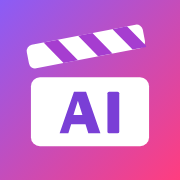
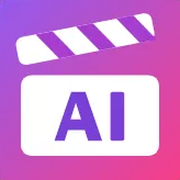
1줄 메뉴 모든 항목에 영상 개수 표시, 보내준 로고 이미지로 파비콘 교체
- 전체·카테고리 옆에도 NEW 탭처럼 영상 개수 표시 (999+까지)
- favicon.ico / favicon-32 / icon-192: 보내준 192px 로고에서 흰 모서리를 투명 처리해 생성
- apple-touch-icon: 모서리까지 꽉 찬 정사각형으로 생성
- 아이콘 주소 v=2 로 올려 브라우저 캐시 갱신, 에셋 버전 20261120i

Claude-Session: https://claude.ai/code/session_01DgkaVsdpXu8nWKSYNj5gJf

Changed region(s): [[0.0833, 0.0556, 0.9167, 0.8889], [0.9722, 0.9722, 1.0, 1.0], [0.0, 0.0, 0.0278, 0.0278]]

diff --git a/public/about.html b/public/about.html
@@ -1,14 +1,14 @@
 <!doctype html><html lang="ko"><head><meta charset="utf-8">
   <meta http-equiv="Content-Security-Policy" content="object-src 'none'; base-uri 'self'; form-action 'self'; script-src 'self' https: 'unsafe-eval'; script-src-attr 'none'; upgrade-insecure-requests" />
   <meta name="referrer" content="strict-origin-when-cross-origin" /><meta name="viewport" content="width=device-width,initial-scale=1"><title>소개 – All AI-Cinema</title>
-<link rel="icon" href="assets/logo.svg?v=1" type="image/svg+xml" /><link rel="icon" href="favicon-32.png?v=1" sizes="32x32" type="image/png" /><link rel="icon" href="icon-192.png?v=1" sizes="192x192" type="image/png" /><link rel="apple-touch-icon" href="apple-touch-icon.png?v=1" />
+<link rel="icon" href="assets/logo.svg?v=2" type="image/svg+xml" /><link rel="icon" href="favicon-32.png?v=2" sizes="32x32" type="image/png" /><link rel="icon" href="icon-192.png?v=2" sizes="192x192" type="image/png" /><link rel="apple-touch-icon" href="apple-touch-icon.png?v=2" />
 <link rel="stylesheet" href="https://cdn.jsdelivr.net/npm/pretendard@1.3.9/dist/web/variable/pretendardvariable-dynamic-subset.css" integrity="sha384-uR1wgObmx89ZQ4VVXHdzjbDJZ1PvBK01K+E3GebmaBKdZ87qRJvBWPoPbzWeEd5T" crossorigin="anonymous" referrerpolicy="no-referrer" /><link rel="stylesheet" href="assets/style.css?v=20261120b">
 <!-- Google 태그 (Google Ads) -->
   <script async src="https://www.googletagmanager.com/gtag/js?id=AW-947429542"></script>
   <script src="assets/gtag-init.js?v=20261120c"></script>
 <script async src="https://pagead2.googlesyndication.com/pagead/js/adsbygoogle.js?client=ca-pub-8096684162493748" crossorigin="anonymous"></script>
 <style>.doc{max-width:760px;margin:0 auto;padding:32px var(--gutter) 60px}.doc h1{font-size:28px}.doc h2{font-size:18px;margin-top:28px}.doc p,.doc li{color:#c8c8d6}</style></head>
-<body><header class="topbar"><div class="topbar__inner"><a class="brand" href="./"><img class="brand__mark" src="assets/logo.svg?v=1" alt="" width="30" height="30" /><span class="brand__name">All AI-Cinema</span></a></div></header>
+<body><header class="topbar"><div class="topbar__inner"><a class="brand" href="./"><img class="brand__mark" src="assets/logo.svg?v=2" alt="" width="30" height="30" /><span class="brand__name">All AI-Cinema</span></a></div></header>
 <main class="doc"><h1>All AI-Cinema 소개</h1>
 <p>All AI-Cinema는 생성형 AI로 제작된 영화, 드라마, 단편 영상을 유튜브에서 찾아 장르·국가·채널별로 모아 보여주는 큐레이션 사이트입니다. 등록된 채널에 새 영상이 올라오면 자동으로 목록에 추가됩니다.</p>
 <h2>영상 저작권</h2>

diff --git a/public/privacy.html b/public/privacy.html
@@ -1,14 +1,14 @@
 <!doctype html><html lang="ko"><head><meta charset="utf-8">
   <meta http-equiv="Content-Security-Policy" content="object-src 'none'; base-uri 'self'; form-action 'self'; script-src 'self' https: 'unsafe-eval'; script-src-attr 'none'; upgrade-insecure-requests" />
   <meta name="referrer" content="strict-origin-when-cross-origin" /><meta name="viewport" content="width=device-width,initial-scale=1"><title>개인정보처리방침 – All AI-Cinema</title>
-<link rel="icon" href="assets/logo.svg?v=1" type="image/svg+xml" /><link rel="icon" href="favicon-32.png?v=1" sizes="32x32" type="image/png" /><link rel="icon" href="icon-192.png?v=1" sizes="192x192" type="image/png" /><link rel="apple-touch-icon" href="apple-touch-icon.png?v=1" />
+<link rel="icon" href="assets/logo.svg?v=2" type="image/svg+xml" /><link rel="icon" href="favicon-32.png?v=2" sizes="32x32" type="image/png" /><link rel="icon" href="icon-192.png?v=2" sizes="192x192" type="image/png" /><link rel="apple-touch-icon" href="apple-touch-icon.png?v=2" />
 <link rel="stylesheet" href="https://cdn.jsdelivr.net/npm/pretendard@1.3.9/dist/web/variable/pretendardvariable-dynamic-subset.css" integrity="sha384-uR1wgObmx89ZQ4VVXHdzjbDJZ1PvBK01K+E3GebmaBKdZ87qRJvBWPoPbzWeEd5T" crossorigin="anonymous" referrerpolicy="no-referrer" /><link rel="stylesheet" href="assets/style.css?v=20261120b">
 <!-- Google 태그 (Google Ads) -->
   <script async src="https://www.googletagmanager.com/gtag/js?id=AW-947429542"></script>
   <script src="assets/gtag-init.js?v=20261120c"></script>
 <script async src="https://pagead2.googlesyndication.com/pagead/js/adsbygoogle.js?client=ca-pub-8096684162493748" crossorigin="anonymous"></script>
 <style>.doc{max-width:760px;margin:0 auto;padding:32px var(--gutter) 60px}.doc h1{font-size:28px}.doc h2{font-size:18px;margin-top:28px}.doc p,.doc li{color:#c8c8d6}</style></head>
-<body><header class="topbar"><div class="topbar__inner"><a class="brand" href="./"><img class="brand__mark" src="assets/logo.svg?v=1" alt="" width="30" height="30" /><span class="brand__name">All AI-Cinema</span></a></div></header>
+<body><header class="topbar"><div class="topbar__inner"><a class="brand" href="./"><img class="brand__mark" src="assets/logo.svg?v=2" alt="" width="30" height="30" /><span class="brand__name">All AI-Cinema</span></a></div></header>
 <main class="doc"><h1>개인정보처리방침</h1>
 <p>All AI-Cinema(이하 "사이트")는 회원가입을 받지 않으며 이름, 연락처 등 개인을 알아볼 수 있는 정보를 직접 수집하지 않습니다.</p>
 <h2>쿠키 및 광고 (Google AdSense)</h2><ul>

diff --git a/public/index.html b/public/index.html
@@ -31,12 +31,12 @@
   <meta name="google-adsense-account" content="ca-pub-8096684162493748" />
   <link rel="preconnect" href="https://i.ytimg.com" />
   <link rel="preconnect" href="https://cdn.jsdelivr.net" />
-  <link rel="icon" href="assets/logo.svg?v=1" type="image/svg+xml" />
-  <link rel="icon" href="favicon-32.png?v=1" sizes="32x32" type="image/png" />
-  <link rel="icon" href="icon-192.png?v=1" sizes="192x192" type="image/png" />
-  <link rel="apple-touch-icon" href="apple-touch-icon.png?v=1" />
+  <link rel="icon" href="assets/logo.svg?v=2" type="image/svg+xml" />
+  <link rel="icon" href="favicon-32.png?v=2" sizes="32x32" type="image/png" />
+  <link rel="icon" href="icon-192.png?v=2" sizes="192x192" type="image/png" />
+  <link rel="apple-touch-icon" href="apple-touch-icon.png?v=2" />
   <link rel="stylesheet" href="https://cdn.jsdelivr.net/npm/pretendard@1.3.9/dist/web/variable/pretendardvariable-dynamic-subset.css" integrity="sha384-uR1wgObmx89ZQ4VVXHdzjbDJZ1PvBK01K+E3GebmaBKdZ87qRJvBWPoPbzWeEd5T" crossorigin="anonymous" referrerpolicy="no-referrer" />
-  <link rel="stylesheet" href="assets/style.css?v=20261120h" />
+  <link rel="stylesheet" href="assets/style.css?v=20261120i" />
 
   <!-- Google 태그 (Google Ads) -->
   <script async src="https://www.googletagmanager.com/gtag/js?id=AW-947429542"></script>
@@ -48,7 +48,7 @@
   <header class="topbar" id="topbar">
     <div class="topbar__inner">
       <a class="brand" href="./" aria-label="All AI-Cinema 홈">
-        <img class="brand__mark" src="assets/logo.svg?v=1" alt="" width="30" height="30" /><span class="brand__name">All AI-Cinema</span>
+        <img class="brand__mark" src="assets/logo.svg?v=2" alt="" width="30" height="30" /><span class="brand__name">All AI-Cinema</span>
       </a>
       <form class="search" role="search">
         <svg viewBox="0 0 24 24" aria-hidden="true"><path d="M10.5 3a7.5 7.5 0 0 1 5.9 12.1l4.2 4.2-1.4 1.4-4.2-4.2A7.5 7.5 0 1 1 10.5 3Zm0 2a5.5 5.5 0 1 0 0 11 5.5 5.5 0 0 0 0-11Z"/></svg>
@@ -144,6 +144,6 @@
     </div>
   </div>
 
-  <script src="assets/app.js?v=20261120h" defer></script>
+  <script src="assets/app.js?v=20261120i" defer></script>
 </body>
 </html>

diff --git a/public/assets/app.js b/public/assets/app.js
@@ -239,10 +239,16 @@
   // ===== 메뉴 (1줄: 장르·국가, 2줄: 유튜브 채널) =====
   const inCat = (v, cat = state.cat) => cat === "전체" || (cat === NEW_KEY ? isNew(v.published) : v.categories.includes(cat));
   const newCount = () => state.all.reduce((n, v) => n + (isNew(v.published) ? 1 : 0), 0);
+  // 1줄 메뉴 항목 + 영상 개수 (NEW 탭과 같은 모양)
+  const countLabel = (n) => (n > 999 ? "999+" : String(n));
+  function catTab(c, n) {
+    return `<button type="button" class="tab tab--count" data-key="${esc(c)}" aria-pressed="${c === state.cat}" aria-label="${esc(c)} 영상 ${n}개">` +
+      `${esc(c)}<span class="tab__count" aria-hidden="true">${countLabel(n)}</span></button>`;
+  }
   function newTab() {
     const n = newCount();
     return `<button type="button" class="tab tab--new" data-key="${NEW_KEY}" aria-pressed="${state.cat === NEW_KEY}" aria-label="NEW: 최근 3일 새 영상 ${n}개">` +
-      `<span class="tab__new" aria-hidden="true">NEW</span>${n ? `<span class="tab__count" aria-hidden="true">${n > 99 ? "99+" : n}</span>` : ""}</button>`;
+      `<span class="tab__new" aria-hidden="true">NEW</span><span class="tab__count" aria-hidden="true">${countLabel(n)}</span></button>`;
   }
   function catList() {
     if (state.site.menu.length) return state.site.menu;
@@ -253,8 +259,8 @@
   }
   function renderMenus() {
     // 전체 → NEW(최근 3일) → 관리자에서 정한 카테고리
-    $("#cats").innerHTML = chip("tab", "전체", "전체", state.cat === "전체") + newTab() +
-      catList().map((c) => chip("tab", c, c, c === state.cat)).join("");
+    $("#cats").innerHTML = catTab("전체", state.all.length) + newTab() +
+      catList().map((c) => catTab(c, state.all.reduce((n, v) => n + (v.categories.includes(c) ? 1 : 0), 0))).join("");
     // 2줄: 현재 고른 장르·국가에 영상이 있는 채널만, 영상 많은 순
     const counts = new Map();
     for (const v of state.all) if (inCat(v) && v.channel) counts.set(v.channel, (counts.get(v.channel) || 0) + 1);

diff --git a/public/admin/index.html b/public/admin/index.html
@@ -7,10 +7,10 @@
   <meta name="robots" content="noindex, nofollow" />
   <meta name="viewport" content="width=device-width, initial-scale=1, viewport-fit=cover" />
   <title>관리자 – All AI-Cinema</title>
-  <link rel="icon" href="../assets/logo.svg?v=1" type="image/svg+xml" />
-  <link rel="icon" href="../favicon-32.png?v=1" sizes="32x32" type="image/png" />
-  <link rel="icon" href="../icon-192.png?v=1" sizes="192x192" type="image/png" />
-  <link rel="apple-touch-icon" href="../apple-touch-icon.png?v=1" />
+  <link rel="icon" href="../assets/logo.svg?v=2" type="image/svg+xml" />
+  <link rel="icon" href="../favicon-32.png?v=2" sizes="32x32" type="image/png" />
+  <link rel="icon" href="../icon-192.png?v=2" sizes="192x192" type="image/png" />
+  <link rel="apple-touch-icon" href="../apple-touch-icon.png?v=2" />
   <link rel="stylesheet" href="https://cdn.jsdelivr.net/npm/pretendard@1.3.9/dist/web/variable/pretendardvariable-dynamic-subset.css" integrity="sha384-uR1wgObmx89ZQ4VVXHdzjbDJZ1PvBK01K+E3GebmaBKdZ87qRJvBWPoPbzWeEd5T" crossorigin="anonymous" referrerpolicy="no-referrer" />
   <link rel="stylesheet" href="../assets/style.css?v=20261120h" />
   <link rel="stylesheet" href="admin.css?v=20261120h" />
@@ -19,7 +19,7 @@
   <header class="topbar adm-top">
     <div class="topbar__inner">
       <a class="brand" href="../" aria-label="사이트로 돌아가기">
-        <img class="brand__mark" src="../assets/logo.svg?v=1" alt="" width="30" height="30" /><span class="brand__name">All AI-Cinema</span>
+        <img class="brand__mark" src="../assets/logo.svg?v=2" alt="" width="30" height="30" /><span class="brand__name">All AI-Cinema</span>
       </a>
       <span class="adm-badge">관리자</span>
       <div class="adm-head-right">

diff --git a/public/assets/style.css b/public/assets/style.css
@@ -207,3 +207,8 @@ select{background:var(--bg2);border:1px solid var(--line);border-radius:10px;pad
 .avatar img{position:absolute;inset:0;width:100%;height:100%;object-fit:cover;border-radius:50%;background:var(--bg2)}
 .player__sub #pChannel{display:inline-flex;align-items:center;gap:8px}
 .avatar--sm{width:26px;height:26px;font-size:12px}
+
+/* 1줄 메뉴: 항목 옆 영상 개수 */
+.tab--count{display:inline-flex;align-items:center;gap:6px}
+.tab--count .tab__count{font-size:12.5px;font-weight:600;opacity:.6}
+.tab--count[aria-pressed="true"] .tab__count{opacity:.75}
